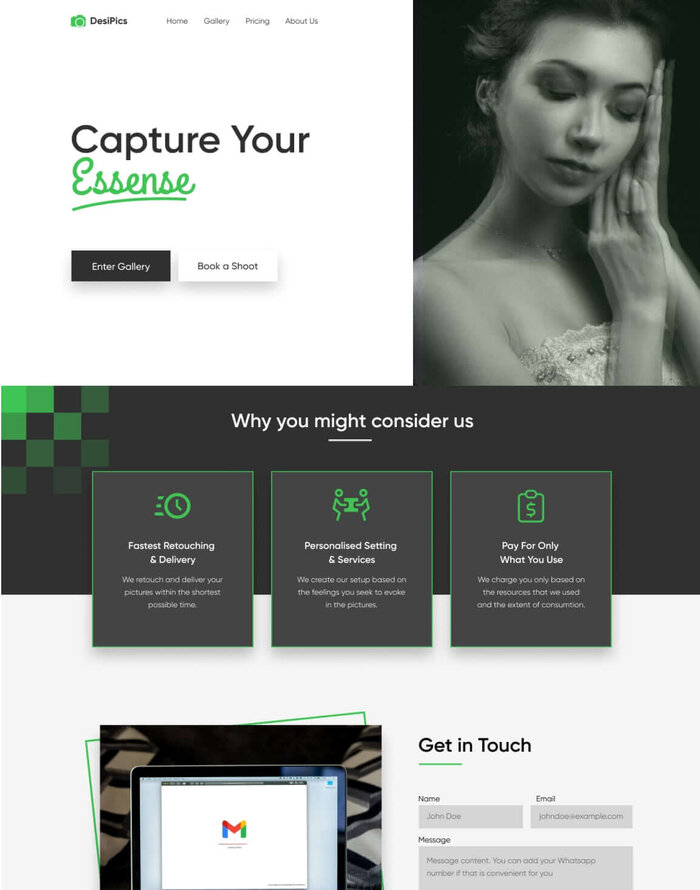
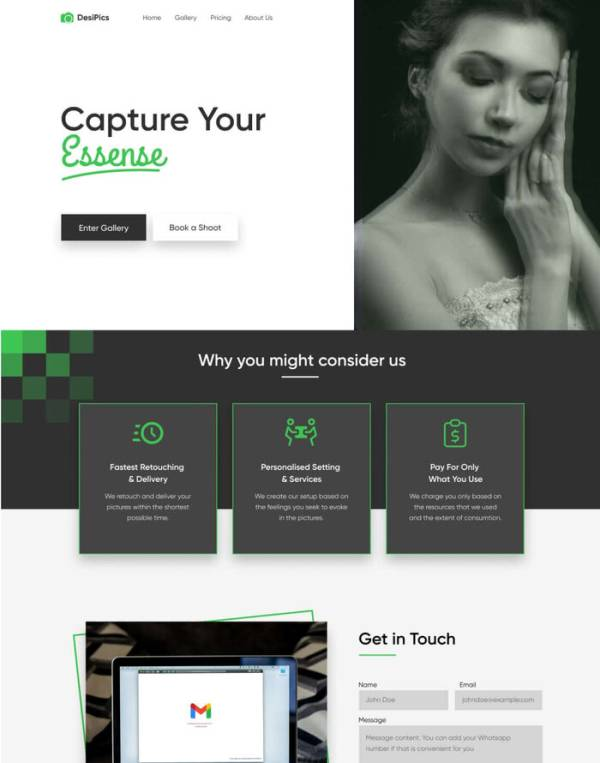
optimized images more

diff --git a/projects.html b/projects.html
@@ -134,7 +134,7 @@
 
           <div class="col-sm-6 col-lg-4 mt-4">
             <div class="project-card">
-              <img src="img/projects/havilah.jpg" alt="" class="project-card__image">
+              <img src="img/projects/havilah.jpg" alt="" class="project-card__image" />
               <div class="project-card__body">
                 <div class="project-card__tag-list">
                   <div class="project-card__tag">HTML</div>
